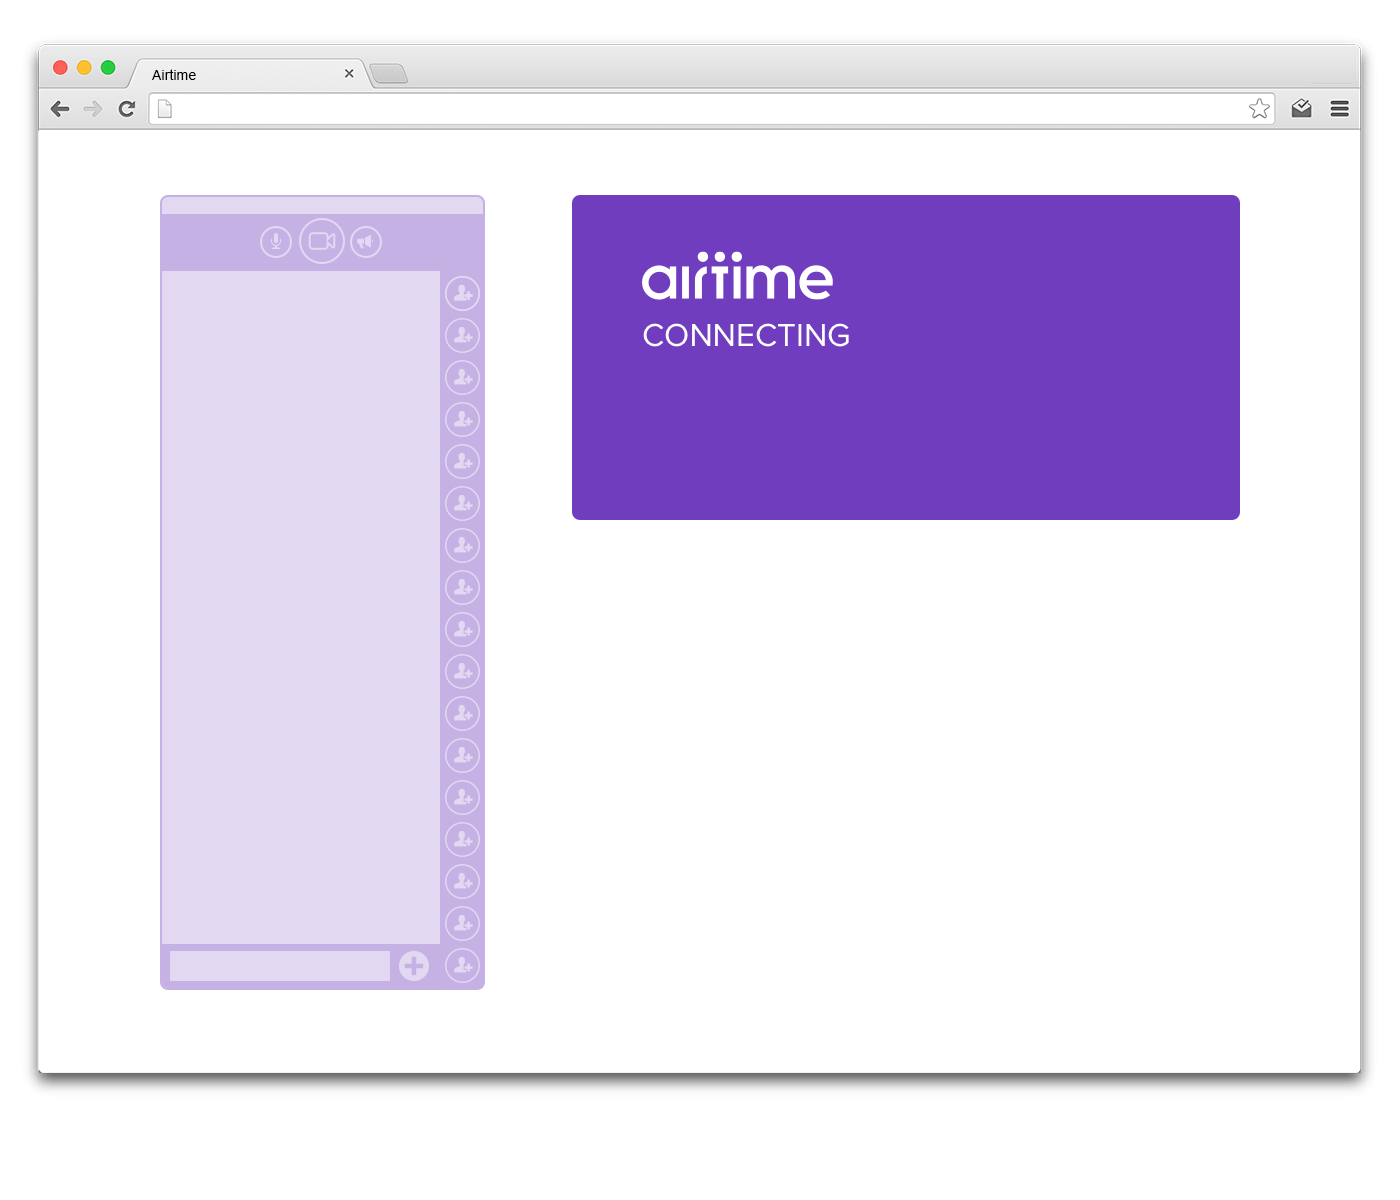
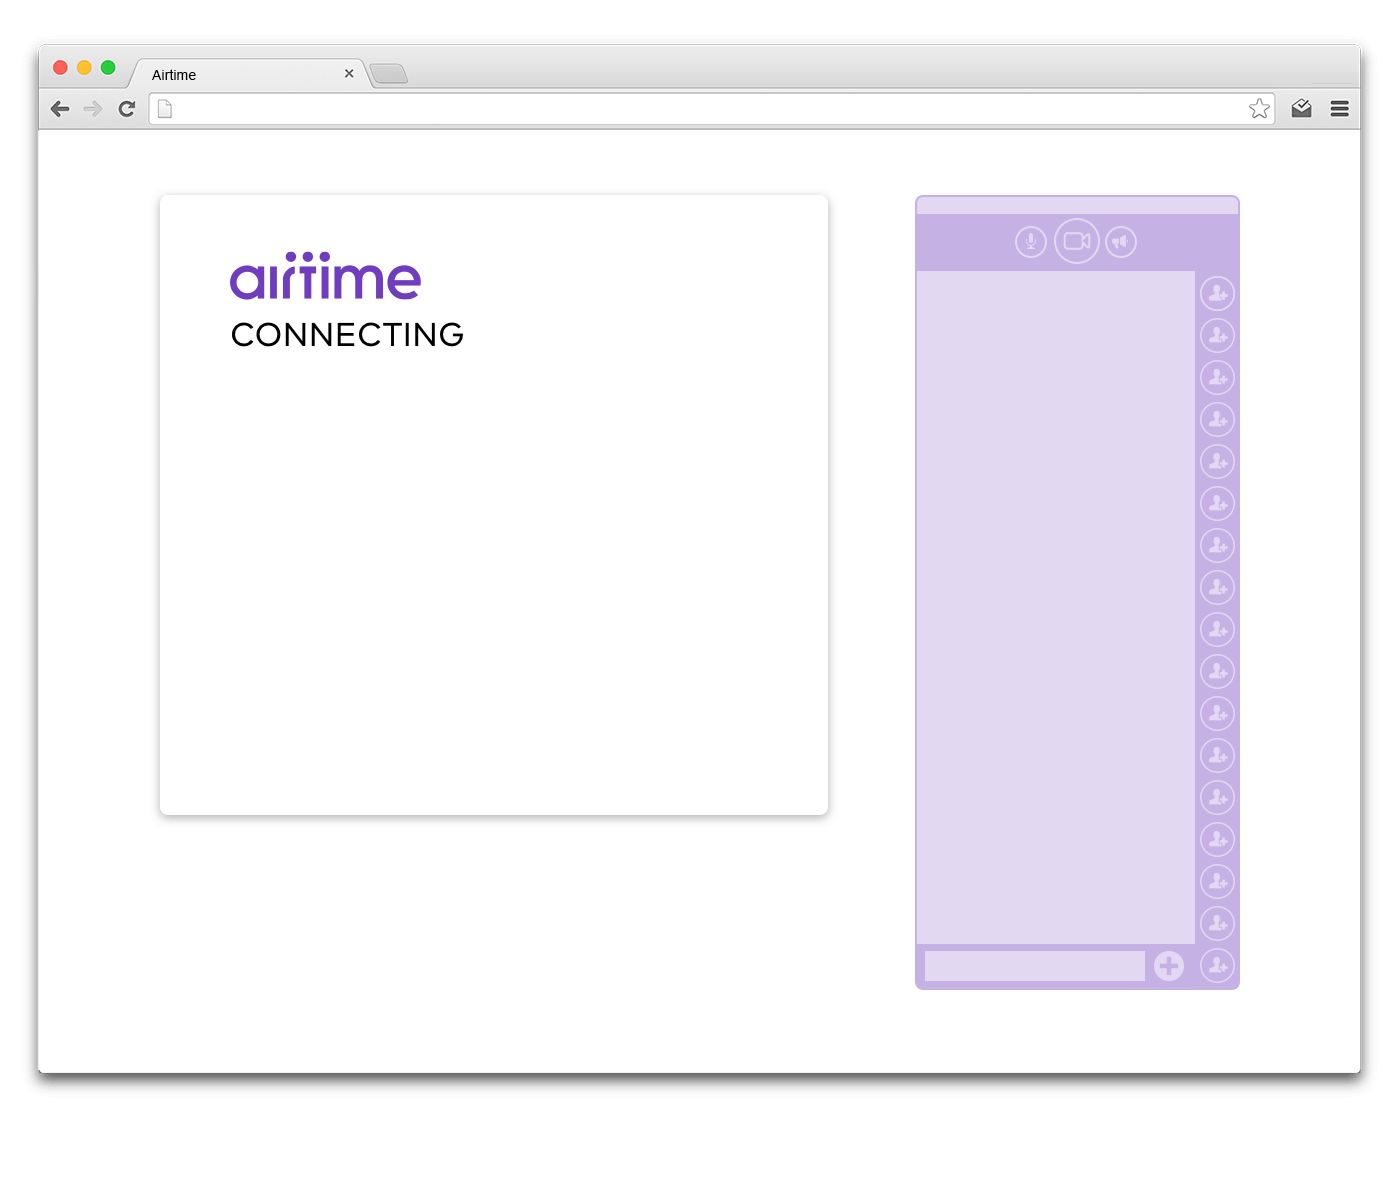
black dots

diff --git a/loading/css/style.css b/loading/css/style.css
@@ -27,12 +27,12 @@ body {
 
 #dots {
   position: relative;
-  left: 350px;
-  top: -123px;
+  left: -28px;
+  top: -125px;
   width: 50px;
   height: 20px;
   display: block;
-  background-image: url("../images/dots.png");
+  background-image: url("../images/dotsBlack.png");
   animation: dots .8s steps(10) infinite;
 }
 @keyframes dots {
